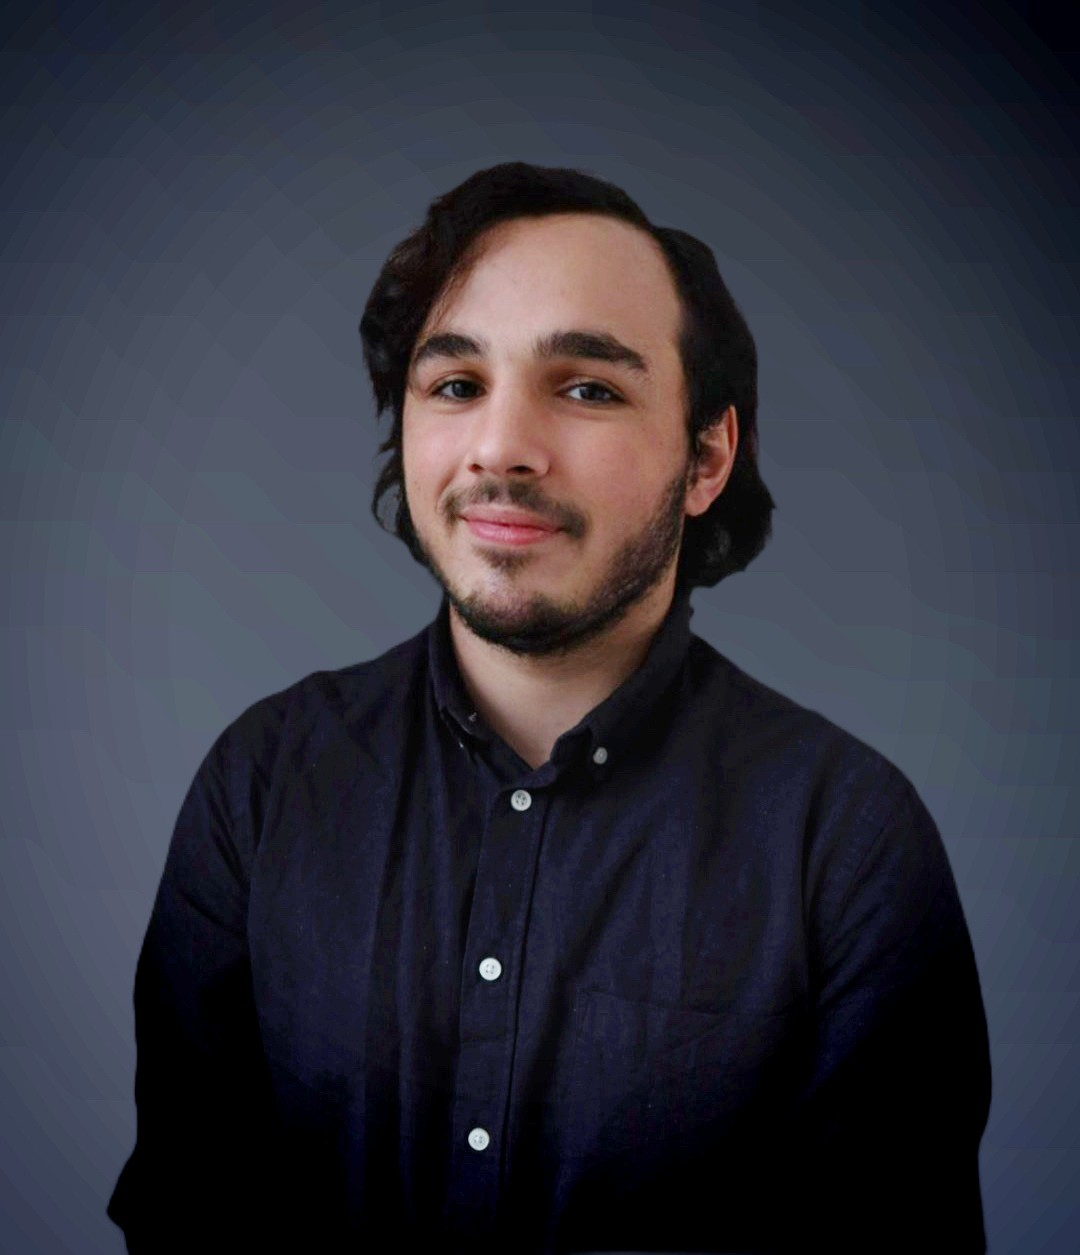
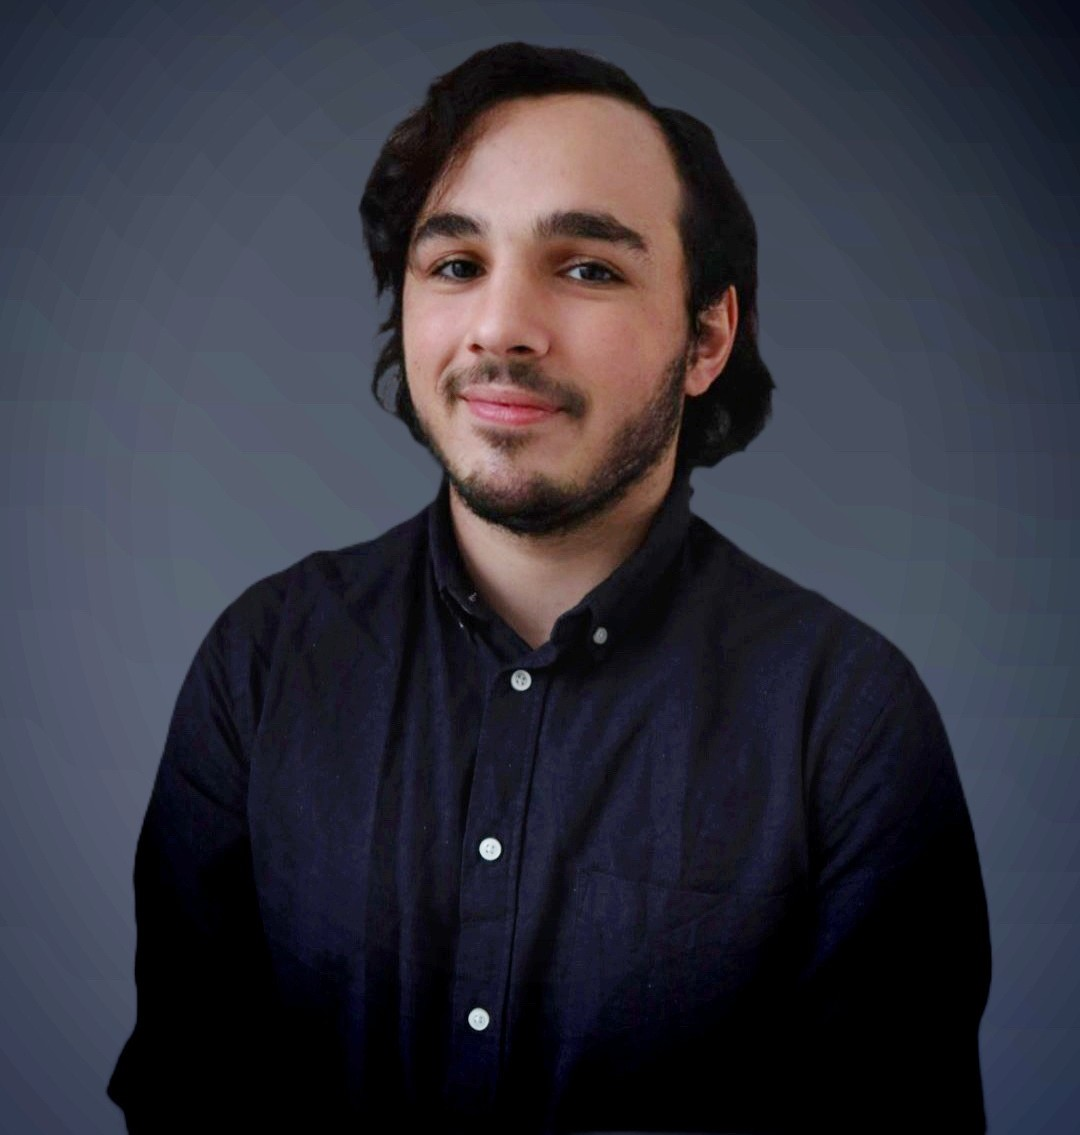
modal&styles

diff --git a/components/Project.jsx b/components/Project.jsx
@@ -1,31 +1,102 @@
-import React from "react";
+import React, { useState } from "react";
 import styles from "@/styles/Project.module.css";
 
 export default function Project() {
+  const [isModalOpen, setIsModalOpen] = useState({
+    card1: false,
+    card2: false,
+    // Ajoutez d'autres cartes au besoin
+  });
+
+  const openModal = (card) => {
+    setIsModalOpen((prevState) => ({
+      ...prevState,
+      [card]: true,
+    }));
+  };
+
+  const closeModal = (card) => {
+    setIsModalOpen((prevState) => ({
+      ...prevState,
+      [card]: false,
+    }));
+  };
+
+  const handleLinkClick = (e, card) => {
+    // Empêcher l'ouverture de la modal si le lien est cliqué
+    if (e.target.tagName.toLowerCase() === "a") {
+      return;
+    }
+    openModal(card);
+  };
+
   return (
     <div className={styles.container}>
-      <div className={styles.projectCard}>
+      <div
+        className={styles.projectCard}
+        onClick={(e) => handleLinkClick(e, "card1")}
+      >
+        {/* Styles de la première carte */}
         <img src="MOVIZ.png" alt="" className={styles.projectImage} />
         <h2 className={styles.projectName}>MyMoviz</h2>
         <p className={styles.descriptionProject}>
-          List de film, via une API, avec un resumer ainsi que la note moyenne
-          donner par le public
+          Liste de films, via une API, avec un résumé ainsi que la note moyenne
+          donnée par le public
         </p>
         <a href="https://moviz-orcin.vercel.app" target="_blank">
-          Visit Site
+          Visiter le site
         </a>
       </div>
-      <div className={styles.projectCard}>
+
+      <div
+        className={styles.projectCard}
+        onClick={(e) => handleLinkClick(e, "card2")}
+      >
+        {/* Styles de la deuxième carte */}
         <img src="MOVIZ.png" alt="" className={styles.projectImage} />
         <h2 className={styles.projectName}>MyMoviz</h2>
         <p className={styles.descriptionProject}>
-          List de film, via une API, avec un resumer ainsi que la note moyenne
-          donner par le public
+          Liste de films, via une API, avec un résumé ainsi que la note moyenne
+          donnée par le public
         </p>
         <a href="https://moviz-orcin.vercel.app" target="_blank">
-          Visit Site
+          Visiter le site
         </a>
       </div>
+
+      {isModalOpen.card1 && (
+        <div
+          className={styles.modalOverlay}
+          onClick={() => closeModal("card1")}
+        >
+          <div
+            className={styles.modalContent}
+            onClick={(e) => e.stopPropagation()}
+          >
+            {/* Contenu de la modal de la carte 1 */}
+            <h2>Modal Content - Card 1</h2>
+            <p>Contenu de la modal...</p>
+            <button onClick={() => closeModal("card1")}>Fermer la modal</button>
+          </div>
+        </div>
+      )}
+
+      {isModalOpen.card2 && (
+        <div
+          className={styles.modalOverlay}
+          onClick={() => closeModal("card2")}
+        >
+          <div
+            className={styles.modalContent}
+            onClick={(e) => e.stopPropagation()}
+          >
+            {/* Contenu de la modal de la carte 2 */}
+            <h2>Modal Content - Card 2</h2>
+            <p>Contenu de la modal...</p>
+            <button onClick={() => closeModal("card2")}>Fermer la modal</button>
+          </div>
+        </div>
+      )}
     </div>
   );
 }

diff --git a/styles/About.module.css b/styles/About.module.css
@@ -1,7 +1,7 @@
 .container {
   display: flex;
   justify-content: space-around;
-  margin-top: 20px;
+  margin-top: 10px;
 }
 
 .meContainer {
@@ -11,57 +11,49 @@
   flex-direction: column;
   align-items: center;
   font-family: serif; 
-  margin-top: 70px;
   font-size: 40px; 
   word-spacing: 0.2em;
-}
-.texte{
-  color: #EEEEEE;
-  display: flex;
-  justify-content: center;
-  flex-direction: column;
-  align-items: center;
-  font-family: serif; 
-  margin-top: 50px;
-  margin-right: 20px;
-  margin-left: 20px;
-  font-size: 40px; 
-  word-spacing: 0.2em;
-  text-align: justify;
 }
 
 .picture {
   display: flex;
   justify-content: flex-end;
-  width: 350px;
+  width: 325px;
   height: auto;
-  border: solid white 1px;
 }
 
-.title{
+.texte {
+  color: #EEEEEE;
+  display: flex;
+  font-family: serif; 
+  margin-top: 50px;
+  margin-right: 20px;
+  margin-left: 20px;
+  font-size: 30px;
+  word-spacing: 0.2em;
+  text-align: justify;
+}
+
+.title {
   display: flex;
   justify-content: center;
-  margin-top: 20px;
   font-family: serif;
   font-size: 40px;
   margin-bottom: 20px;
   color: white ;
-  margin-top: 100px;
-
+  margin-top: 45px;
 }
+
 .hardSkill {
-  display: grid;
-  grid-template-rows: repeat(2, auto); /* Deux lignes de hauteur automatique */
-  grid-template-columns: repeat(5, 1fr); /* Cinq colonnes avec une largeur égale */
-  grid-row-gap: 40px; /* Espace entre les lignes */
-  color: white;
-  margin:auto;
-  margin-bottom: 20px;
-  max-width: 800px;
+  display: flex;
   font-family: 'Franklin Gothic Medium', 'Arial Narrow', Arial, sans-serif;
+  color: white;
+  justify-content: center;
+  gap: 20px; /* Ajoutez la valeur d'espacement souhaitée */
+  margin-bottom: 20px;
 }
 
-.logo{
+.logo {
   width: 90px;
   height: 90px;
 }

diff --git a/styles/Project.module.css b/styles/Project.module.css
@@ -1,40 +1,62 @@
-.container{
-    display: flex;
-    justify-content: center;
-    align-items: center;
-    background-color: #003870;
+.container {
+  display: flex;
+  justify-content: center;
+  align-items: center;
+  background-color: #003870;
 }
 
 .projectCard {
-    border: 2px solid #3498db;
-    border-radius: 10px;
-    overflow: hidden;
-    margin: 20px;
-    width: 300px;
-    box-shadow: 0 4px 8px rgba(0, 0, 0, 0.1);
-    transition: transform 0.2s ease-in-out;
-    margin-bottom: 180.9px;
-    margin-top: 15%;
-  
-   
-  }
-  
-.projectImage {
-    width: 100%;
-    object-fit: cover;
-  }
-  
+  border: 2px solid #3498db;
+  border-radius: 10px;
+  overflow: hidden;
+  margin: 20px;
+  width: 300px;
+  box-shadow: 0 4px 8px rgba(0, 0, 0, 0.1);
+  transition: transform 0.3s ease-in-out;
+  margin-bottom: 180.9px;
+  margin-top: 15%;
+}
 
-  
-.projectName{
-    margin: 0;
-    color: #3498db;
-    font-size: 1.5em;
-  }
-  
-.descriptionProject{
-    margin: 8px 0;
-    color: #555;
-    font-size: 1em;
-  }
-  
+.projectCard:hover {
+  transform: scale(1.05);
+}
+
+.projectImage {
+  width: 100%;
+  object-fit: cover;
+}
+
+.projectName {
+  margin: 0;
+  color: #3498db;
+  font-size: 1.5em;
+}
+
+.descriptionProject {
+  margin: 8px 0;
+  color: #555;
+  font-size: 1em;
+}
+
+.modalOverlay {
+  position: fixed;
+  top: 0;
+  left: 0;
+  width: 100%;
+  height: 100%;
+  background: rgba(0, 0, 0, 0.5);
+  display: flex;
+  justify-content: center;
+  align-items: center;
+}
+
+.modalContent {
+  background-color: #fff;
+  padding: 20px;
+  border-radius: 10px;
+  box-shadow: 0 4px 8px rgba(0, 0, 0, 0.1);
+  max-width: 400px;
+  width: 100%;
+  box-sizing: border-box;
+  text-align: center;
+}

diff --git a/components/Contact.jsx b/components/Contact.jsx
@@ -82,19 +82,21 @@ export const Contact = () => {
   };
 
   return (
-    <div className={classNames(styles.container, styles.center)}>
-      <form ref={form} onSubmit={sendEmail} className={styles.form}>
-        <label>Name</label>
-        <input type="text" name="user_name" />
-        <span className={styles.error}>{errors.userName}</span>
-        <label>Email</label>
-        <input type="email" name="user_email" />
-        <span className={styles.error}>{errors.userEmail}</span>
-        <label>Message</label>
-        <textarea name="message" />
-        <span className={styles.error}>{errors.message}</span>
-        <input type="submit" value="Send" />
-      </form>
+    <div className={styles.container}>
+      <div className={classNames(styles.formulaire, styles.center)}>
+        <form ref={form} onSubmit={sendEmail} className={styles.form}>
+          <label>Name</label>
+          <input type="text" name="user_name" />
+          <span className={styles.error}>{errors.userName}</span>
+          <label>Email</label>
+          <input type="email" name="user_email" />
+          <span className={styles.error}>{errors.userEmail}</span>
+          <label>Message</label>
+          <textarea name="message" />
+          <span className={styles.error}>{errors.message}</span>
+          <input type="submit" value="Send" />
+        </form>
+      </div>
     </div>
   );
 };

diff --git a/components/About.jsx b/components/About.jsx
@@ -9,19 +9,16 @@ export default function About() {
           <div>HEY,</div>
           <div className={styles.name}> I'AM RAYANE OUAANI</div>
           <div className={styles.poste}>A DEVELOPPEUR FULLSTACK</div>
+          <div className={styles.texte}>
+            I'm a young technology enthusiast. Always curious about
+            understanding how the world works, I delved into web development.
+            Each line of code I write is an exploration, an opportunity to
+            learn, and contribute to something new.
+          </div>
         </div>
         <div className={styles.img}>
           <img src="profile_picture.jpg" alt="" className={styles.picture} />
         </div>
-      </div>
-      <div className={styles.texte}>
-        I'm a young technology enthusiast. Always curious about understanding
-        how the world works, I delved into web development. Each line of code I
-        write is an exploration, an opportunity to learn, and contribute to
-        something new. Today, my goal is clear: to become a developer. The more
-        I immerse myself in this field, the more my thirst for learning grows.
-        Join me in this adventure where each day is an opportunity to evolve and
-        contribute to the digital future.
       </div>
       <div className={styles.title}>HARDSKILL</div>
       <div className={styles.hardSkill}>

diff --git a/styles/Contact.module.css b/styles/Contact.module.css
@@ -1,9 +1,12 @@
 .container {
+  background-color: #003870;
+}
+
+.formulaire{
     display: flex;
     align-items: center;
     justify-content: center;
     min-height: 85.7vh;
-    background-color: #f0f0f0;
   }
   
   .center {
@@ -23,8 +26,10 @@
   }
   
   .form:hover {
-    box-shadow: 0 8px 16px rgba(0, 0, 0, 0.2); /* Augmentation de l'ombre au survol */
+    box-shadow: 0 8px 20px rgba(9, 255, 0, 0.6); /* Augmentation de l'ombre au survol */
   }
+  
+  
   
   .form label {
     display: block;

diff --git a/styles/Footer.module.css b/styles/Footer.module.css
@@ -9,7 +9,7 @@
   text-align: center;
   color: white;
   font-family: Arial, Helvetica, sans-serif;
-  box-sizing: border-box;
+  
 }
 
 .container a {
